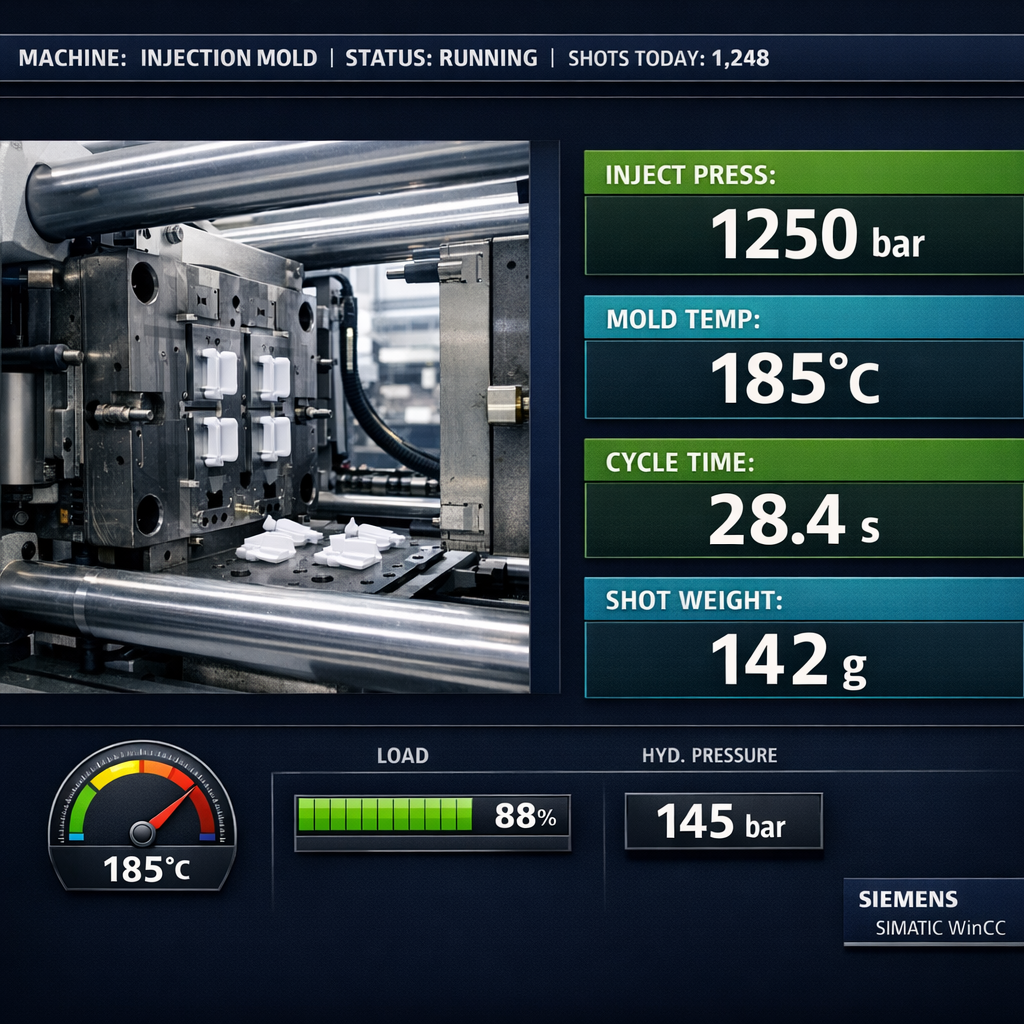
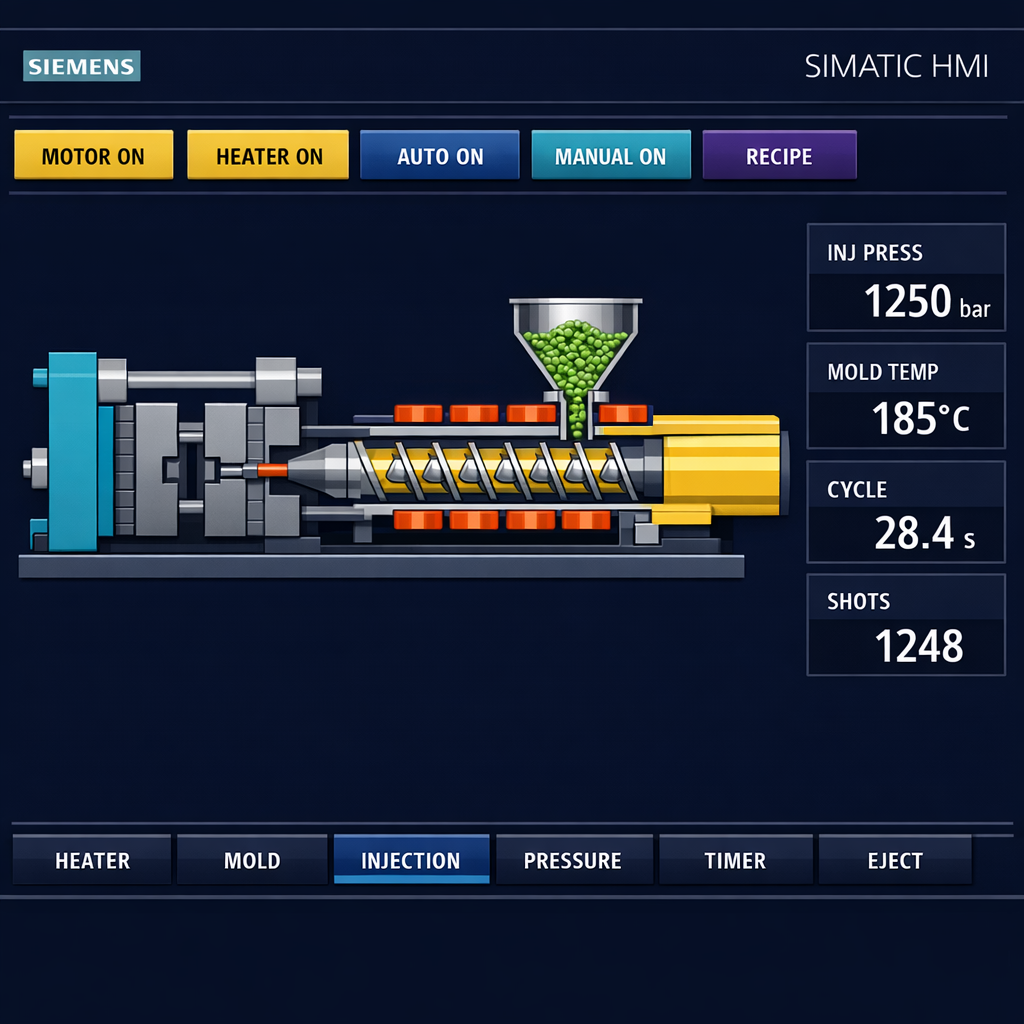
feat: replace HMI images with Siemens SIMATIC schematic-style screens
- Generate 9 new technical schematic HMI images matching Siemens reference:
  * CNC Lathe - spindle/chuck/tool turret schematic with RPM/FEED/POS readouts
  * CNC Mill - column/spindle/table schematic with control buttons
  * Press Brake - C-frame/hydraulic cylinder/bending schematic
  * Compressor - motor/screw/tank schematic with pressure/flow
  * Conveyor - belt/motor/sensors schematic with throughput metrics
  * Welder - power supply/torch/gas flow schematic
  * Injection Mold - barrel/screw/mold cross-section (matches reference style)
  * Assembly Robot - 6-axis arm with joints/gripper schematic
  * Generic Industrial Machine - motor/gearbox/process chamber

- Each image includes:
  * Top row control buttons (MOTOR ON, AUTO ON, MANUAL ON, etc.)
  * Bottom function tabs (SPINDLE, FEED, TOOL, TIMER, etc.)
  * Right-side digital readout panels
  * Colored component blocks (cyan, yellow, green, gray)
  * SIEMENS SIMATIC HMI branding

- Bump cache-bust version from ?v=3 to ?v=4

diff --git a/app/admin/hmi/page.tsx b/app/admin/hmi/page.tsx
@@ -79,45 +79,45 @@ function getMachineImageUrl(category: string, machineName: string): string {
   const name = machineName.toLowerCase();
   // Specific name matches first
   if (name.includes('press brake') || name.includes('pressbrake'))
-    return '/machines/press-brake.png?v=3';
+    return '/machines/press-brake.png?v=4';
   if (name.includes('injection mold') || name.includes('injection molding') || name.includes('inject'))
-    return '/machines/injection-mold.png?v=3';
+    return '/machines/injection-mold.png?v=4';
   if (name.includes('robot') || name.includes('assembly'))
-    return '/machines/assembly.png?v=3';
+    return '/machines/assembly.png?v=4';
   if (name.includes('weld'))
-    return '/machines/welder.png?v=3';
+    return '/machines/welder.png?v=4';
   if (name.includes('lathe'))
-    return '/machines/cnc-lathe.png?v=3';
+    return '/machines/cnc-lathe.png?v=4';
   if (name.includes('mill') || name.includes('milling'))
-    return '/machines/cnc-mill.png?v=3';
+    return '/machines/cnc-mill.png?v=4';
   if (name.includes('press') || name.includes('hydraulic'))
-    return '/machines/press-brake.png?v=3';
+    return '/machines/press-brake.png?v=4';
   if (name.includes('compressor'))
-    return '/machines/compressor.png?v=3';
+    return '/machines/compressor.png?v=4';
   if (name.includes('conveyor'))
-    return '/machines/conveyor.png?v=3';
+    return '/machines/conveyor.png?v=4';
 
   // Category fallbacks
   switch (category) {
     case 'CNC_MILL':
-      return '/machines/cnc-mill.png?v=3';
+      return '/machines/cnc-mill.png?v=4';
     case 'CNC_LATHE':
-      return '/machines/cnc-lathe.png?v=3';
+      return '/machines/cnc-lathe.png?v=4';
     case 'PRESS':
     case 'HYDRAULIC':
-      return '/machines/press-brake.png?v=3';
+      return '/machines/press-brake.png?v=4';
     case 'COMPRESSOR':
-      return '/machines/compressor.png?v=3';
+      return '/machines/compressor.png?v=4';
     case 'CONVEYOR':
-      return '/machines/conveyor.png?v=3';
+      return '/machines/conveyor.png?v=4';
     case 'WELDER':
-      return '/machines/welder.png?v=3';
+      return '/machines/welder.png?v=4';
     case 'INJECTION_MOLD':
-      return '/machines/injection-mold.png?v=3';
+      return '/machines/injection-mold.png?v=4';
     case 'ASSEMBLY':
-      return '/machines/assembly.png?v=3';
+      return '/machines/assembly.png?v=4';
     default:
-      return '/machines/other.png?v=3';
+      return '/machines/other.png?v=4';
   }
 }
 

diff --git a/app/dashboard/hmi/UserHMIClient.tsx b/app/dashboard/hmi/UserHMIClient.tsx
@@ -34,45 +34,45 @@ function getMachineImageUrl(category: string, machineName: string): string {
   const name = machineName.toLowerCase();
   // Specific name matches first
   if (name.includes('press brake') || name.includes('pressbrake'))
-    return '/machines/press-brake.png?v=3';
+    return '/machines/press-brake.png?v=4';
   if (name.includes('injection mold') || name.includes('injection molding') || name.includes('inject'))
-    return '/machines/injection-mold.png?v=3';
+    return '/machines/injection-mold.png?v=4';
   if (name.includes('robot') || name.includes('assembly'))
-    return '/machines/assembly.png?v=3';
+    return '/machines/assembly.png?v=4';
   if (name.includes('weld'))
-    return '/machines/welder.png?v=3';
+    return '/machines/welder.png?v=4';
   if (name.includes('lathe'))
-    return '/machines/cnc-lathe.png?v=3';
+    return '/machines/cnc-lathe.png?v=4';
   if (name.includes('mill') || name.includes('milling'))
-    return '/machines/cnc-mill.png?v=3';
+    return '/machines/cnc-mill.png?v=4';
   if (name.includes('press') || name.includes('hydraulic'))
-    return '/machines/press-brake.png?v=3';
+    return '/machines/press-brake.png?v=4';
   if (name.includes('compressor'))
-    return '/machines/compressor.png?v=3';
+    return '/machines/compressor.png?v=4';
   if (name.includes('conveyor'))
-    return '/machines/conveyor.png?v=3';
+    return '/machines/conveyor.png?v=4';
 
   // Category fallbacks
   switch (category) {
     case 'CNC_MILL':
-      return '/machines/cnc-mill.png?v=3';
+      return '/machines/cnc-mill.png?v=4';
     case 'CNC_LATHE':
-      return '/machines/cnc-lathe.png?v=3';
+      return '/machines/cnc-lathe.png?v=4';
     case 'PRESS':
     case 'HYDRAULIC':
-      return '/machines/press-brake.png?v=3';
+      return '/machines/press-brake.png?v=4';
     case 'COMPRESSOR':
-      return '/machines/compressor.png?v=3';
+      return '/machines/compressor.png?v=4';
     case 'CONVEYOR':
-      return '/machines/conveyor.png?v=3';
+      return '/machines/conveyor.png?v=4';
     case 'WELDER':
-      return '/machines/welder.png?v=3';
+      return '/machines/welder.png?v=4';
     case 'INJECTION_MOLD':
-      return '/machines/injection-mold.png?v=3';
+      return '/machines/injection-mold.png?v=4';
     case 'ASSEMBLY':
-      return '/machines/assembly.png?v=3';
+      return '/machines/assembly.png?v=4';
     default:
-      return '/machines/other.png?v=3';
+      return '/machines/other.png?v=4';
   }
 }
 
